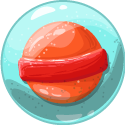
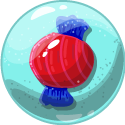
création de la class grid

diff --git a/js/game/Grid.js b/js/game/Grid.js
@@ -1,0 +1,74 @@
+import { ImgComponent } from '../lib/ImgComponent.js'
+import { Size } from '../lib/Size.js'
+import { Source } from '../lib/Source.js'
+import { Vector } from '../lib/Vector.js'
+
+import { Bubble } from './Bubble.js'
+
+export class Grid{
+    constructor(game){
+        this.game = game
+        this.marge = 8
+    }
+
+    get scene(){
+        return this.game.scene
+    }
+
+    get assetsBank(){
+        return this.game.assetsBank
+    }
+
+    get part(){
+        return this.game.part
+    }
+
+    draw(){
+        let l = 0
+        for(let line of this.part.data.grid){
+            let c = 0
+            for(let bubble of line){
+                let type = bubble,
+                assetName = 'bubble'+type,
+                size = this.game.percentsize(assetName, 'bgPart'),
+                bg = this.scene.getComponent('bgPart'),
+                decal = line.length < 12 ? size.width / 2 : 0
+
+                this.part.data.grid[l][c] = new Bubble({
+                    name : 'b_'+l+'_'+c,
+                    type : type,
+                    scene: this.scene,
+                    image : this.assetsBank.img[assetName],
+                    size : size,
+                    position : new Vector((bg.position.x + this.marge + decal) + (size.width * c), (size.height * l) - this.marge),
+                    source : new Source ({
+                        size : new Size(this.assetsBank.img[assetName].width, this.assetsBank.img[assetName].height)
+                    })
+                })
+                
+                this.scene
+                .addComponent(this.part.data.grid[l][c])
+                
+                c ++
+            }
+            l ++
+        }
+
+    }
+
+    resize(){
+        let bg = this.scene.getComponent('bgPart'),
+        l = 0
+
+        for(let line of this.part.data.grid){
+            let c = 0
+            for(let bubble of line){
+                bubble.size = this.game.percentsize('bubble'+bubble.type, 'bgPart')
+                let decal = line.length < 12 ? bubble.size.width / 2 : 0
+                bubble.position = new Vector((bg.position.x + this.marge + decal) + (bubble.size.width * c), (bubble.size.height * l) - this.marge)
+                c ++
+            }
+            l ++
+        }
+    }
+}

diff --git a/js/game/Part.js b/js/game/Part.js
@@ -4,6 +4,7 @@ import { Source } from '../lib/Source.js'
 import { Vector } from '../lib/Vector.js'
 
 import { Gun } from './Gun.js'
+import { Grid } from './Grid.js'
 
 export class Part{
     constructor(game, data){
@@ -11,6 +12,7 @@ export class Part{
         this.data = data
 
         this.gun = new Gun(this.game)
+        this.grid = new Grid(this.game)
 
         this.mousemove = e => {
             this.gun.trackMouse(this.scene.mousePosition(e))
@@ -34,10 +36,6 @@ export class Part{
 
     get assetsBank(){
         return this.game.assetsBank
-    }
-
-    get grid(){
-        return this.data.grid
     }
 
     bgSize(name){
@@ -77,6 +75,7 @@ export class Part{
         }))
         
         this.gun.draw()
+        this.grid.draw()
     }
 
     evetHandler(){
@@ -97,6 +96,7 @@ export class Part{
         tail.position = new Vector(bgPart.position.x, (bgPart.position.y + bgPart.size.height) - (bgPart.size.height / 4))
 
         this.gun.resize()
+        this.grid.resize()
     }
 
     dispose(){

diff --git a/js/main.js b/js/main.js
@@ -121,7 +121,7 @@ window.addEventListener('load', (e) => {
     })
 
 
-    //mise en movement de labulle -- Object "part" --
+    //mise en movement de la bulle -- Object "part" --
     var position = (elt) => {
         elt.position.x += speed * Math.cos(angle.rad)
         elt.position.y += speed * -1 * Math.sin(angle.rad)

diff --git a/js/game/Bubble.js b/js/game/Bubble.js
@@ -4,6 +4,7 @@ export class Bubble extends ImgComponent{
     constructor(data){
         super(data)
 
+        this.type = data.type
         this.rayon = data.rayon
     }
 
